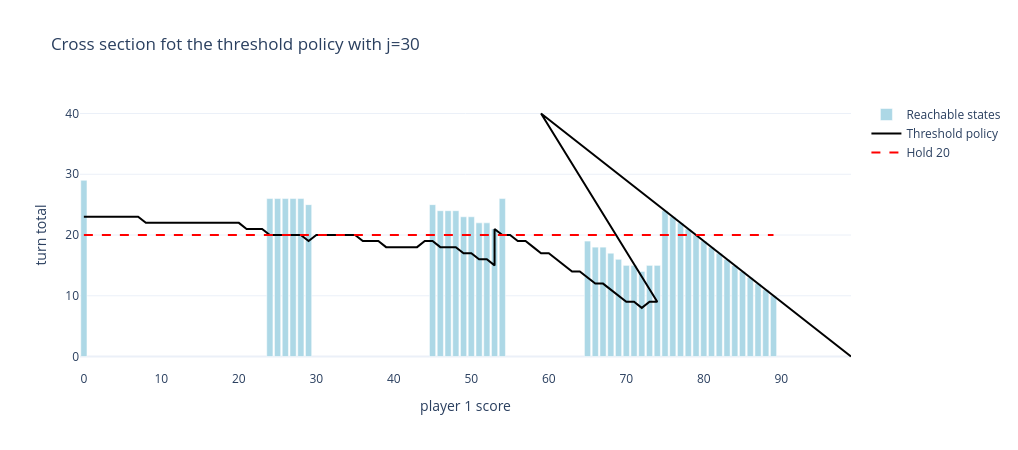
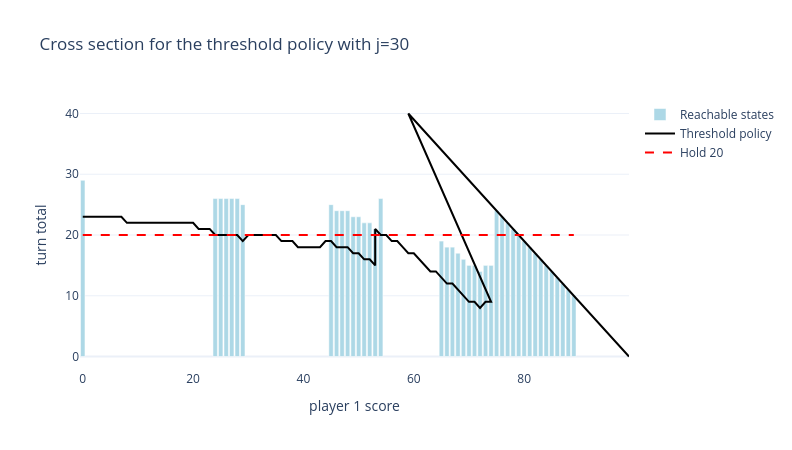
Fix typo in cross section plot and update with that the report

diff --git a/source/visualisation.py b/source/visualisation.py
@@ -371,7 +371,7 @@ def plot_cross_section(res:Pig, section: int = 30):
 
     # Layout
     fig.update_layout(
-        title=f'Cross section fot the threshold policy with j={section}',
+        title=f'Cross section for the threshold policy with j={section}',
         yaxis_title='turn total',
         xaxis_title='player 1 score',
         barmode='group',  # optional: group bars if multiple
